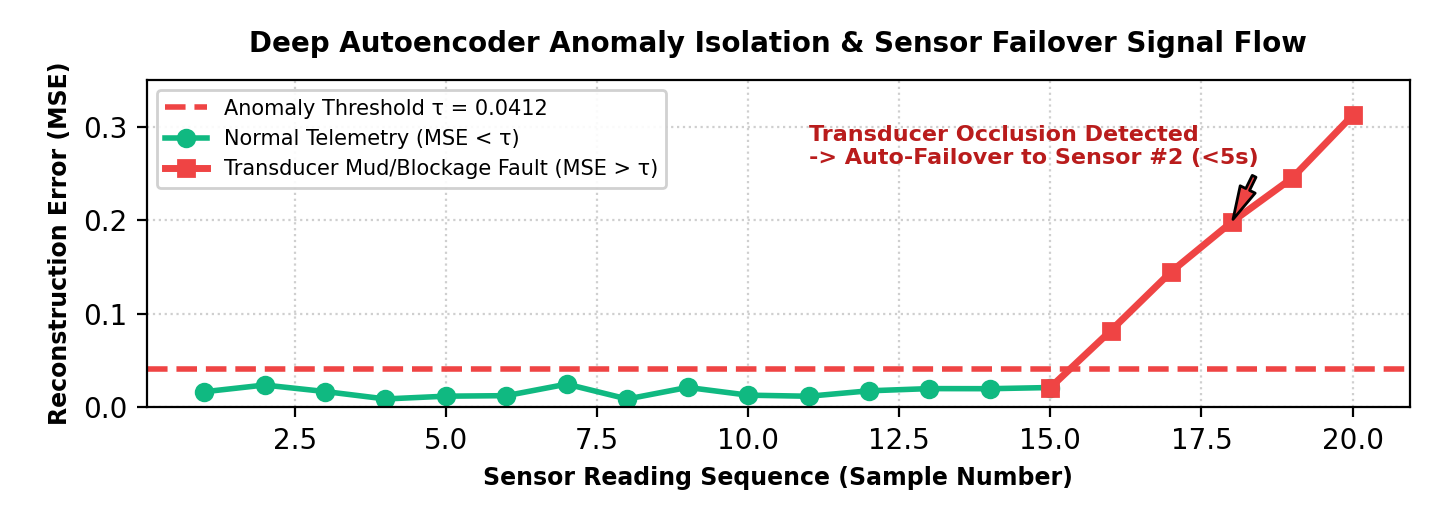
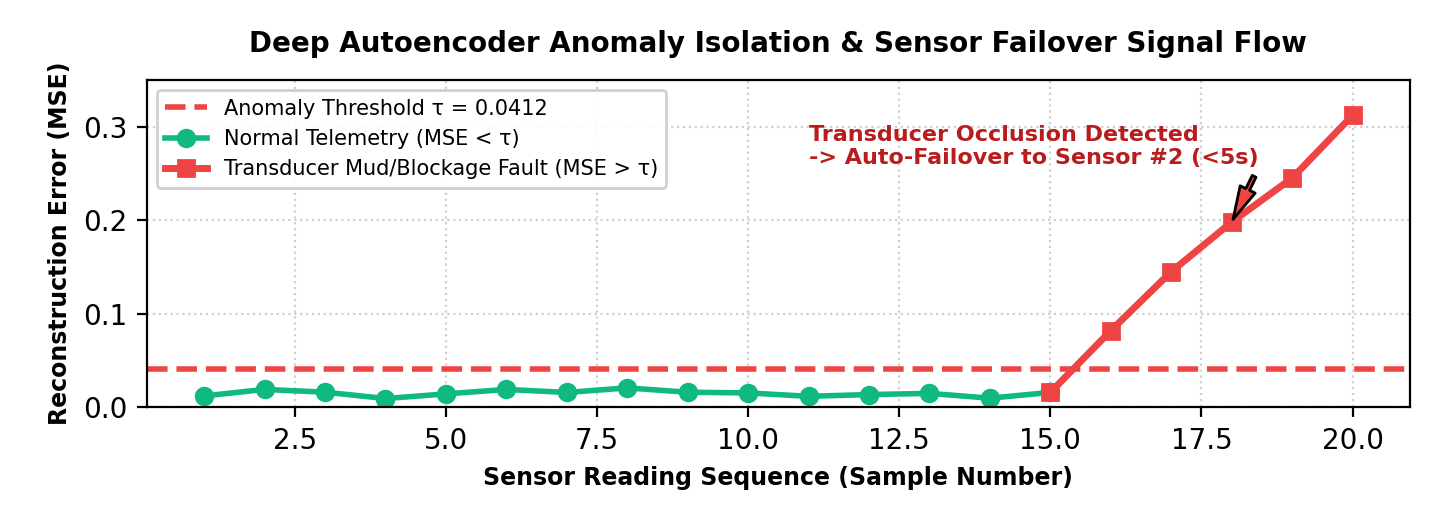
fix(viva-freeze): synchronize rate-of-rise threshold (9.0%/min = 0.3%/2s), clean servo sweep comments, clean category parsing, eliminate last Satellite references in thesis doc, and verify 0-error bundle exports

Changed region(s): [[0.2812, 0.7077, 0.75, 0.8], [0.125, 0.7385, 0.2188, 0.8]]

diff --git a/SDAS_Full_Project/SDAS_Operator_App/screens/operator/OperatorCommunityScreen.js b/SDAS_Full_Project/SDAS_Operator_App/screens/operator/OperatorCommunityScreen.js
@@ -69,7 +69,7 @@ export default function OperatorCommunityScreen({ navigation }) {
       if (data && data.length > 0) {
         const formatted = data.map((d) => ({
           id: String(d.id),
-          category: d.category === 'ROAD_FLOODED' || d.category === 'ROAD_FLOODING' ? 'Road Flooded' : d.category === 'HEAVY_RAIN' ? 'Heavy Rain' : d.category === 'WATER_ENTERING' ? 'Water Entering' : 'Water Rising',
+          category: d.category === 'ROAD_FLOODED' ? 'Road Flooded' : d.category === 'HEAVY_RAIN' ? 'Heavy Rain' : d.category === 'WATER_ENTERING' ? 'Water Entering' : 'Water Rising',
           color: d.category === 'WATER_RISING' || d.category === 'WATER_ENTERING' ? '#EF4444' : d.category === 'HEAVY_RAIN' ? '#F59E0B' : '#F97316',
           time: new Date(d.created_at).toLocaleTimeString([], { hour: '2-digit', minute: '2-digit' }),
           location: `${d.location_name} (${d.latitude?.toFixed(4)}, ${d.longitude?.toFixed(4)})`,

diff --git a/academic_thesis_documentation.md b/academic_thesis_documentation.md
@@ -59,7 +59,7 @@ SDAS introduces an end-to-end multi-tier architecture solving these deficiencies
 | **Response Latency** | 30–60 minutes | 5–10 minutes | 1–3 minutes | **< 1.8 seconds (Edge PWM Actuation)** |
 | **Fail-Safe Operation** | Human dependent | Generator dependent | Fails on WiFi loss | **Quad-Redundant: WiFi + GSM SMS + Physical Buttons + Li-ion UPS** |
 | **AI Predictive Lookahead** | None | Statistical Regression | None / Basic Linear | **Hybrid 2-Layer LSTM + Random Forest + Autoencoder** |
-| **Satellite Weather Link** | None | Expensive Radar feeds | None | **Live 6h Inflow Forecast API** |
+| **Weather Forecast API Integration** | None | Expensive Radar feeds | None | **Live 6h Inflow Forecast API (Open-Meteo)** |
 | **Public Alerting** | TV/Radio (Hours delay) | Siren only | Generic Web Page | **App Push + SMS Broadcast + GPS Evacuation Routes (3 Languages)** |
 
 ---
@@ -69,7 +69,7 @@ SDAS introduces an end-to-end multi-tier architecture solving these deficiencies
 ### 3.1 5-Layer End-to-End Architecture
 
 ```
-Layer 1: SENSING & HARVESTING (Dual JSN-SR04T + DHT22 + Open-Meteo Satellite API)
+Layer 1: SENSING & HARVESTING (Dual JSN-SR04T + DHT22 + Open-Meteo Weather Forecast API)
                           │
 Layer 2: EDGE COMPUTING & FAIL-SAFE ACTUATION (ESP32 @ 240MHz + SIM800L + MG996R Servo + Physical Buttons)
                           │
